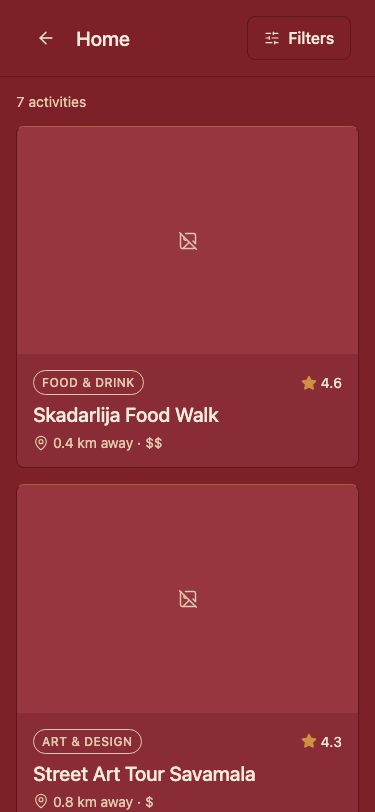
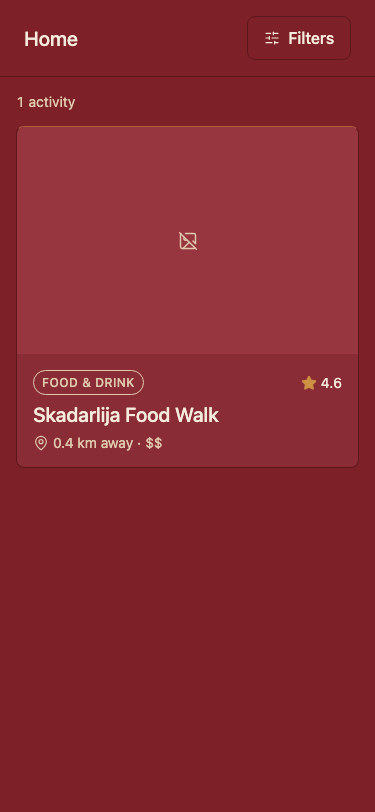
fix(app): T4 review pass — malformed-JSON crash, no-custom-back-control, error-box reserve
- activities.ts: wrap the success-path res.json() in try/catch (mirrors the
  error-body parse) so a malformed 200 resolves to the discriminated error
  result instead of throwing and hanging the screen on the loading skeleton.
- ActivityListScreen: drop the custom ArrowLeft back button (design-spec
  forbids it; DESIGN_STANDARDS.md's own Navigation-patterns deferral already
  covers the no-router-yet reality). Wire Android hardware back via
  BackHandler instead — a real native affordance, not a custom control.
- FilterSheet: move the Apply error box out of the ScrollView so it stays
  reserved above the footer instead of scrolling with the filter groups.
- Re-capture all T4 screenshots (header changed) via a throwaway
  network-mocking Playwright script — this branch's proxy-service is still
  the pre-T2 skeleton, no live activities-service to hit.

Changed region(s): [[0.0293, 0.585, 0.968, 1.0], [0.0587, 0.0308, 0.352, 0.0616], [0.176, 0.1232, 0.2347, 0.1539]]

diff --git a/app/src/features/activity-list/ActivityListScreen.tsx b/app/src/features/activity-list/ActivityListScreen.tsx
@@ -2,6 +2,7 @@ import { useCallback, useEffect, useRef, useState } from 'react';
 import type { ElementRef } from 'react';
 import {
   AccessibilityInfo,
+  BackHandler,
   findNodeHandle,
   Pressable,
   SafeAreaView,
@@ -10,7 +11,7 @@ import {
   Text,
   View,
 } from 'react-native';
-import { ArrowLeft, SearchX, SlidersHorizontal } from 'lucide-react-native';
+import { SearchX, SlidersHorizontal } from 'lucide-react-native';
 import type { Activity, ActivitiesQueryResult } from '../../api/activities';
 import { queryActivities } from '../../api/activities';
 import { ActivityCard, ActivityCardSkeleton } from '../../components/ActivityCard';
@@ -66,6 +67,25 @@ export function ActivityListScreen({ selection, onBack }: ActivityListScreenProp
     };
   }, [runQuery]);
 
+  // design-spec.md requires the platform-native back control/gesture, not a
+  // custom on-screen button — but T3/T4 deliberately have no stack
+  // navigator yet (see App.tsx), so there's no navigator-provided gesture
+  // to defer to either. Android's hardware back button is itself a native
+  // platform affordance (RN's BackHandler), not a custom control, so it's
+  // wired here.
+  // ponytail: iOS has no equivalent without a navigator (BackHandler is a
+  // no-op on iOS) — no back path exists there today. Accepted per
+  // DESIGN_STANDARDS.md's own "Navigation patterns... no router yet"
+  // deferral; add a router (and this becomes free on both platforms) once a
+  // third screen/back-stack need shows up. See engineering-notes.md.
+  useEffect(() => {
+    const sub = BackHandler.addEventListener('hardwareBackPress', () => {
+      onBack();
+      return true;
+    });
+    return () => sub.remove();
+  }, [onBack]);
+
   function focusCount() {
     const handle = countRef.current && findNodeHandle(countRef.current);
     if (handle) AccessibilityInfo.setAccessibilityFocus(handle);
@@ -117,22 +137,11 @@ export function ActivityListScreen({ selection, onBack }: ActivityListScreenProp
   const filterCount = activeFilterCount(appliedFilters);
   const resultCount = queryState.status === 'loaded' ? queryState.activities.length : queryState.status === 'empty' ? 0 : null;
   const showDistance = selection.scope !== 'outside_country';
-  const backFocus = useFocusable();
   const filtersFocus = useFocusable();
 
   return (
     <SafeAreaView style={styles.screen}>
       <View style={styles.header}>
-        <Pressable
-          onPress={onBack}
-          onFocus={backFocus.onFocus}
-          onBlur={backFocus.onBlur}
-          accessibilityRole="button"
-          accessibilityLabel="Back"
-          style={[styles.backButton, backFocus.focused && styles.iconButtonFocused]}
-        >
-          <ArrowLeft size={20} color={colors.text} strokeWidth={1.75} />
-        </Pressable>
         <Text style={styles.headerTitle}>{SCOPE_TITLES[selection.scope]}</Text>
         <Pressable
           ref={filtersButtonRef}
@@ -259,18 +268,6 @@ const styles = StyleSheet.create({
     paddingHorizontal: space[6],
     borderBottomWidth: 1,
     borderBottomColor: colors.border,
-  },
-  backButton: {
-    width: 44,
-    height: 44,
-    borderRadius: radius.default,
-    alignItems: 'center',
-    justifyContent: 'center',
-    outlineStyle: 'solid',
-    outlineWidth: 0,
-  },
-  iconButtonFocused: {
-    backgroundColor: colors.surfaceHover,
   },
   headerTitle: {
     flex: 1,

diff --git a/app/src/features/activity-list/ActivityListScreen.test.tsx b/app/src/features/activity-list/ActivityListScreen.test.tsx
@@ -1,4 +1,4 @@
-import { AccessibilityInfo } from 'react-native';
+import { AccessibilityInfo, BackHandler } from 'react-native';
 import { act, fireEvent, render, screen, waitFor } from '@testing-library/react-native';
 import { queryActivities } from '../../api/activities';
 import type { Activity, ActivitiesQueryResult } from '../../api/activities';
@@ -79,14 +79,25 @@ describe('ActivityListScreen', () => {
     expect(screen.getByText('Skadarlija Food Walk')).toBeTruthy();
   });
 
-  it('calls onBack when the back button is pressed', async () => {
+  it('calls onBack on Android hardware back press — no custom back control per design-spec.md', async () => {
     mockedQuery.mockResolvedValue(successResult([]));
+    const addBackListener = jest.spyOn(BackHandler, 'addEventListener');
     const onBack = jest.fn();
     render(<ActivityListScreen selection={{ scope: 'home' }} onBack={onBack} />);
     await waitFor(() => expect(screen.getByText('No activities match')).toBeTruthy());
 
-    fireEvent.press(screen.getByRole('button', { name: 'Back' }));
+    expect(screen.queryByRole('button', { name: 'Back' })).toBeNull();
+
+    const registration = addBackListener.mock.calls.find(([eventName]) => eventName === 'hardwareBackPress');
+    expect(registration).toBeTruthy();
+    const handler = registration![1] as () => boolean;
+    expect(handler()).toBe(true);
     expect(onBack).toHaveBeenCalledTimes(1);
+
+    // afterEach's resetAllMocks() would otherwise leave addEventListener
+    // returning undefined for every later test's own BackHandler
+    // registration (real `.remove()` call on unmount) — restore explicitly.
+    addBackListener.mockRestore();
   });
 
   it('opens the Filter sheet from the header Filters button', async () => {

diff --git a/app/App.test.tsx b/app/App.test.tsx
@@ -1,4 +1,4 @@
-import { AccessibilityInfo } from 'react-native';
+import { AccessibilityInfo, BackHandler } from 'react-native';
 import { act, fireEvent, render, screen, waitFor } from '@testing-library/react-native';
 import App from './App';
 import { queryActivities } from './src/api/activities';
@@ -39,13 +39,19 @@ describe('App', () => {
     await waitFor(() => expect(screen.getByText('No activities match')).toBeTruthy());
   });
 
-  it('Back on the activity list returns to the scope picker', async () => {
+  it('Android hardware back on the activity list returns to the scope picker (no custom back control)', async () => {
+    const addBackListener = jest.spyOn(BackHandler, 'addEventListener');
     render(<App />);
     await flush();
     fireEvent.press(screen.getByRole('button', { name: /^Home\./i }));
     await waitFor(() => expect(screen.getByText('No activities match')).toBeTruthy());
 
-    fireEvent.press(screen.getByRole('button', { name: 'Back' }));
+    const registration = addBackListener.mock.calls.find(([eventName]) => eventName === 'hardwareBackPress');
+    const handler = registration![1] as () => boolean;
+    act(() => {
+      handler();
+    });
     expect(screen.getByText(/where do you want to explore/i)).toBeTruthy();
+    addBackListener.mockRestore();
   });
 });

diff --git a/app/src/features/activity-list/FilterSheet.tsx b/app/src/features/activity-list/FilterSheet.tsx
@@ -160,13 +160,17 @@ export function FilterSheet({ visible, initialFilters, onApply, onClose }: Filte
                 setDraft((prev) => ({ ...prev, maxDistanceKm }))
               )}
             </FilterGroup>
-
-            {error && (
-              <View style={styles.errorBox}>
-                <Text style={styles.errorText}>{error}</Text>
-              </View>
-            )}
           </ScrollView>
+
+          {/* Sibling of the ScrollView, not inside it — design-spec.md calls
+              for the Apply error to surface "above the footer (reserved
+              space)", i.e. always visible, not scrollable out of view with
+              the filter groups on a long list. */}
+          {error && (
+            <View style={styles.errorBox}>
+              <Text style={styles.errorText}>{error}</Text>
+            </View>
+          )}
 
           <View style={styles.footer}>
             <Pressable
@@ -301,6 +305,7 @@ const styles = StyleSheet.create({
     borderColor: colors.error,
     borderRadius: radius.default,
     padding: space[3],
+    marginTop: space[3],
   },
   errorText: {
     fontSize: fontSize.sm,

diff --git a/app/App.tsx b/app/App.tsx
@@ -6,9 +6,11 @@ import type { ScopeSelection } from './src/features/scope-picker/types';
 // ponytail: a plain useState screen-switch, not a router — this is a linear
 // 2-screen flow (T3 picks a scope, T4 lists activities for it). Add
 // React Navigation only if a third route/back-stack need shows up (see
-// APP_STANDARDS.md). "Back" from the list screen is a plain callback that
-// returns to scope-picker, not a native navigator gesture — there is no
-// stack navigator installed to provide one (see T4's engineering notes).
+// APP_STANDARDS.md). `onBack` is a plain callback that returns to
+// scope-picker; the list screen wires it to Android's hardware back button
+// (a real native affordance, not a custom control) since there is no stack
+// navigator installed to provide the native back gesture itself — see
+// ActivityListScreen.tsx and T4's engineering notes.
 type Screen = { name: 'scope-picker' } | { name: 'activity-list'; selection: ScopeSelection };
 
 export default function App() {

diff --git a/app/src/api/activities.ts b/app/src/api/activities.ts
@@ -54,8 +54,14 @@ export async function queryActivities(body: ActivitiesQueryRequest): Promise<Act
   }
 
   if (res.ok) {
-    const data = (await res.json()) as { activities: Activity[] };
-    return { status: 'success', activities: data.activities };
+    try {
+      const data = (await res.json()) as { activities: Activity[] };
+      return { status: 'success', activities: data.activities };
+    } catch {
+      // Malformed 200 body — same discriminated-error shape as every other
+      // failure path, so callers never have to special-case a thrown reject.
+      return { status: 500, message: 'Something went wrong. Please try again.' };
+    }
   }
 
   let message = 'Something went wrong. Please try again.';
